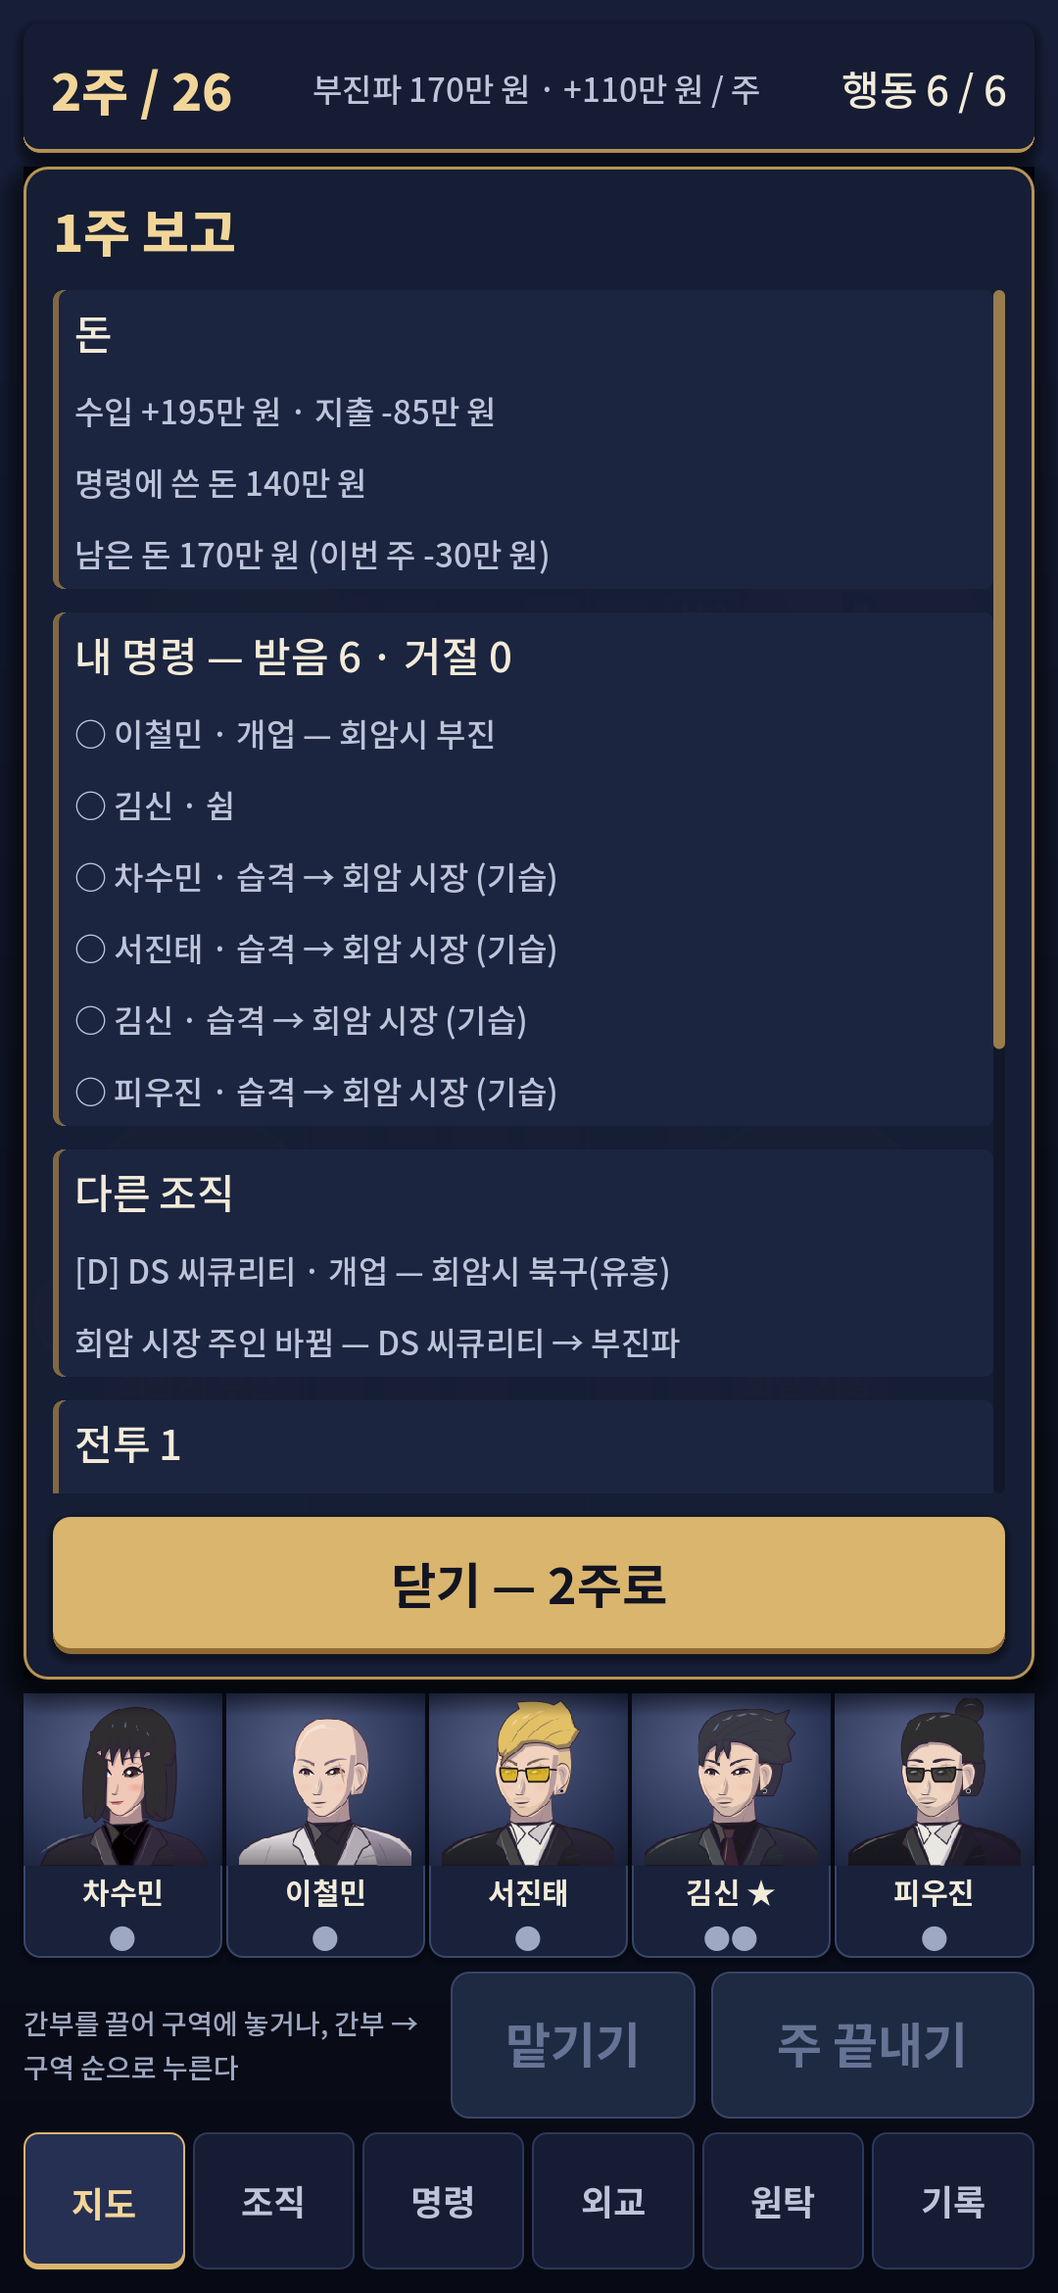
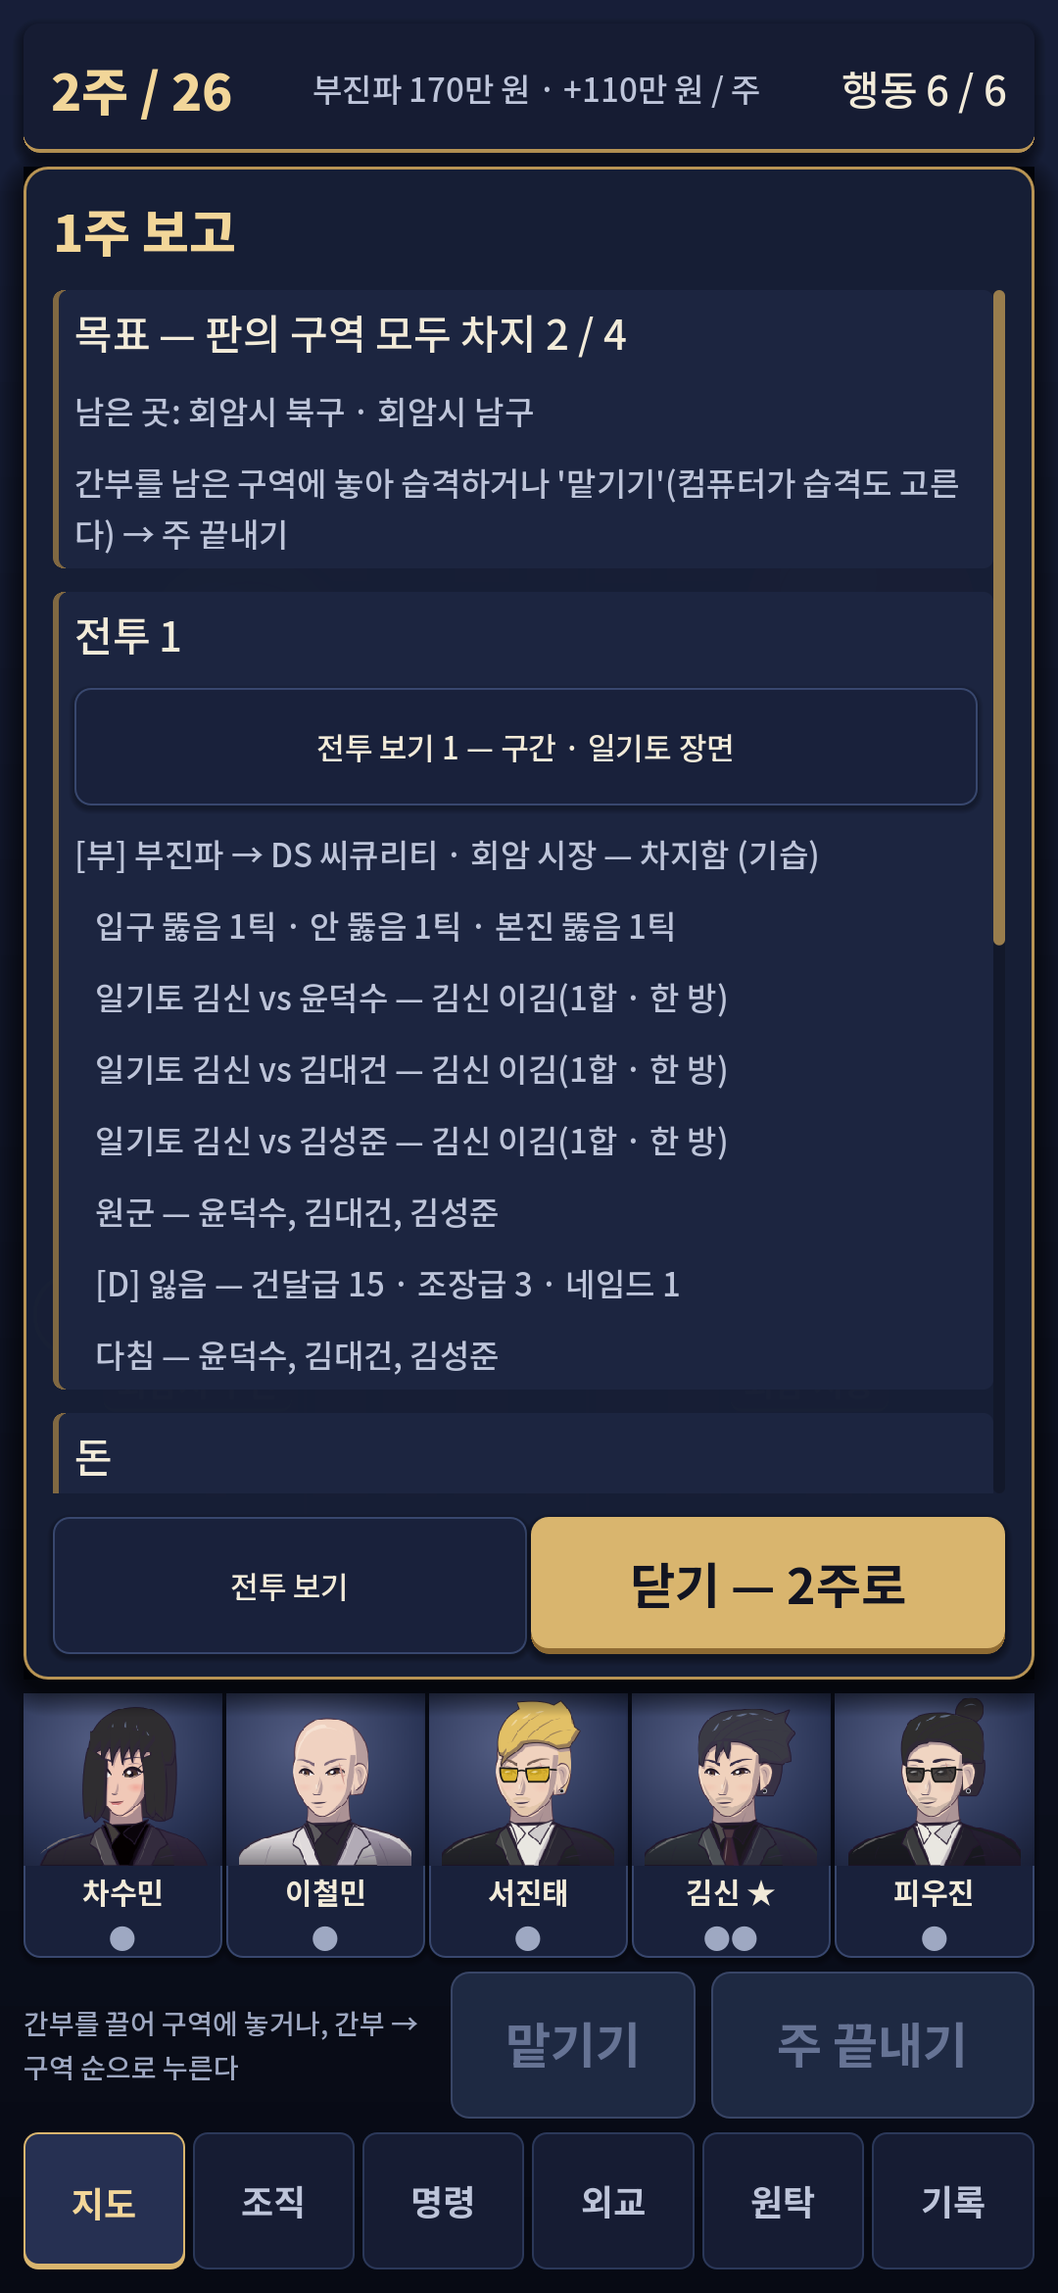
폰 rc.2 고침(T-6) — 보고: 목표 · 전투 카드를 앞에 · '전투 보기'를 카드 제목 밑과 아래 '닫기' 옆에 · 스크롤 목록 안 판을 PASS 로(손가락 끌기) · 시험 153

diff --git a/scripts/verify.py b/scripts/verify.py
@@ -47,7 +47,8 @@ COV_FILES = {
           "sim/rules_common.gd", "sim/tables.gd", "sim/state.gd", "sim/fixed.gd", "sim/economy.gd", "sim/setup.gd",
           "sim/orders.gd", "sim/kinds/move.gd", "sim/kinds/open.gd", "sim/kinds/expand.gd", "sim/kinds/recruit.gd",
           "sim/kinds/rest.gd", "sim/save.gd", "ui/map_layout.gd", "ui/view.gd", "sim/draft.gd",
-          "sim/duel.gd", "sim/combat.gd", "sim/outcome.gd", "sim/kinds/raid.gd", "sim/kinds/defend.gd"],
+          "sim/duel.gd", "sim/combat.gd", "sim/outcome.gd", "sim/kinds/raid.gd", "sim/kinds/defend.gd",
+          "ui/touch_scroll.gd"],
     "B": ["src/storage.gd", "src/data_files.gd", "sim/turn.gd", "sim/ai.gd", "sim/game.gd"],
 }
 COV_DIRS = ("sim", "src", "ui", "tests", "data")

diff --git a/docs/C3_테스트결과서_습격과일기토.md b/docs/C3_테스트결과서_습격과일기토.md
@@ -1,7 +1,7 @@
 # C3 테스트결과서 — 습격 · 일기토 · 전투 화면
 
 - 관련: `docs/C3_요구사항정의서_습격과일기토.md`(FR-301~310) · `docs/C3_설계서_습격과일기토.md` · `docs/기획_차이.md` (나)24~33 · `docs/성능.md` 2-1 · `docs/폰확인.md`
-- 정정 이력: 2026-11-10 — 첫 작성(서버 실행 증거 · 커버리지 · 자체 점검). 같은 날 — 8절 CI(run `42817779997` · `42818044721`) · 에뮬레이터 · 릴리스. 폰 결과는 폰 확인 뒤 더한다. 2026-11-11 — 9절 그림 바꾸기(도트 → 벡터 일러스트 · 글꼴 · 테마 — 사용자 지시 · `docs/기획_차이.md` (라)12) · 4절 스크린샷을 새 그림으로 다시 찍음(옛 장은 git 이력). 같은 날 — 10절 그림 2차(3/4 흉상 · 사용자 지시 다시 · (라)13) · 4절 네 장을 다시 찍음. 같은 날 — 8절 태그 `v0.3.0-rc.2`(run `42958856820`) · 에뮬레이터 · 릴리스.
+- 정정 이력: 2026-11-10 — 첫 작성(서버 실행 증거 · 커버리지 · 자체 점검). 같은 날 — 8절 CI(run `42817779997` · `42818044721`) · 에뮬레이터 · 릴리스. 폰 결과는 폰 확인 뒤 더한다. 2026-11-11 — 9절 그림 바꾸기(도트 → 벡터 일러스트 · 글꼴 · 테마 — 사용자 지시 · `docs/기획_차이.md` (라)12) · 4절 스크린샷을 새 그림으로 다시 찍음(옛 장은 git 이력). 같은 날 — 10절 그림 2차(3/4 흉상 · 사용자 지시 다시 · (라)13) · 4절 네 장을 다시 찍음. 같은 날 — 8절 태그 `v0.3.0-rc.2`(run `42958856820`) · 에뮬레이터 · 릴리스. 같은 날 — 8절 폰 rc.2 결과 · 11절 보고 고침(T-6) · 4절 보고 스크린샷 다시.
 
 ## 1. 서버 실행 증거 (2026-11-10 · 작업 서버 · 브랜치 `impl-c3`)
 - `python3 -B scripts/verify.py` 원문(서버 경로는 저장소 기준으로 줄임):
@@ -135,7 +135,7 @@ OK — 앱이 살아 있음 (pid 3579) · 자가 해시 같음
 ```
   - 로그 전체에서 `SCRIPT ERROR` 0줄. 에뮬레이터 fps(2~3)는 소프트웨어 GPU 라 예산 판정에 쓰지 않는다(`docs/성능.md` 3절).
[1 lines of base64/hex data omitted]
-- 폰 `v0.3.0-rc.2`: (폰 확인 뒤 더한다 — `docs/폰확인.md` C3 항목)
+- 폰 `v0.3.0-rc.2`(2026-11-11 · 사용자): "김신, 서진태, 피우진 회암 시장에 보내놓고 주 끝내기 하니까 보고의 '전투 보기' 버튼이 없는데? 그냥 전투 1 하고 설명칸만 있음" · "일기토 보고싶은데 어떻게해야하는지 모르겠음. 일러스트 초상은 잘 보임." · "화면을 편 상태에서는 '보고' 등 위아래로 손가락으로 화면 내리기가 잘 안먹혀." · "4주 보고에 승리 - 부진파는 잘나온다 확인했어." → 11절 · T-6 에서 고침(다음 rc). 그림은 "이것도 구린데 어떻게하지?" — 방법을 사용자에게 다시 물음.
 
 ## 9. 그림 바꾸기 — 도트 → 벡터 일러스트 (2026-11-11 · rc.2 앞 · 사용자 지시)
 - 까닭: 폰 rc.1 을 본 사용자 — "너무 그래픽이 안좋아서 볼것 다 못보겠어 … 도트형식말고 … 글로벌 어워즈 … 가장 반응 좋았던걸로 양식 입혀"(`docs/기획_차이.md` (라)12). 고른 방향과 까닭은 (나)34(TGA 2019 전략 부문 수상작 — 그림 초상 · 셀 음영 · 짙은 바탕 금색 강조 방향만 · 베끼지 않음).
@@ -211,3 +211,17 @@ verify: 11/11 통과 · 15초 — OK
 ```
 - CI: push run [`42950805111`](https://github.com/hipiboy7/castle_strategy/actions/runs/42950805111)(impl-c3 · e364eb5) — **성공**(verify `11/11 통과` · APK 안 파일 점검 `APK 에 판정 · 화면 코드 있음 · 시험 없음 · 크기 69276217 바이트` — 1차 67,559,993 에서 +1.7MB · 예산 80MB 안).
 - 안 된 것 · 위험: 얼굴 틀은 남녀 둘이고 모두 같은 쪽을 본다(사람마다 차이는 머리 · 눈 모양 · 안경 · 수염 · 흉터 · 옷 · 색). 폰에서 보는 느낌(작은 칸 · 접힌 화면)은 rc.2 폰 확인 때 받는다(`docs/폰확인.md` '새 그림(rc.2)' 줄).
+
+## 11. 폰 rc.2 고침 — 보고 '전투 보기' · 끌어 내리기 (2026-11-11 · `docs/트러블슈팅.md` T-6 · `docs/기획_차이.md` (나)38)
+- 서버 재현(경로만 — 손가락 끌기는 headless 에서 `is_touchscreen_available()` 이 false 라 재현 못 함): 새 판(시드 1)에서 김신 · 서진태 · 피우진 습격 → 맡기기 되풀이 = 1주 회암 시장 차지(일기토 3) · 2주 남구 · **4주 북구 → `win`**. 사용자 폰도 4주 승리가 나왔다(위 8절).
+- 고친 곳: `ui/touch_scroll.gd`(새 — 스크롤 목록 안 STOP 판을 PASS 로 · `ui/app.gd` 가 `SceneTree.node_added` 에 이음) · `ui/view.gd` `report_cards`(싸움이 있던 주는 목표 · 전투 카드가 앞) · `goal_card`(새 — 'n / 4' · 남은 곳 · 어떻게) · `ui/report_view.gd`(단추를 카드 제목 밑 · 아래 '닫기' 옆 '전투 보기').
+- 시험(A): `tests/unit/test_touch_scroll.gd`(판 → PASS · 단추 · 글 · 스크롤 밖 그대로) · `tests/unit/test_view_battle.gd` `test_report_order_battle_first`(1주 맡기기 카드 차례 `goal · battle · money · orders · intel` · '2 / 4' · 남은 곳 · 조용한 주는 전투가 끝). `scripts/verify.py` 커버리지 A 에 `ui/touch_scroll.gd` 를 더했다.
+- 서버 `python3 -B scripts/verify.py`(2026-11-11):
+```
+[ok] 시험 (2.3s) — tests: 153 passed, 0 failed
+[ok] 커버리지 (2.6s) — A 182/182 100%(기준 90%) · B 26/26 100%(기준 70%)
+[ok] 화면 띄우기 (창 없이 120 프레임) (1.5s) — SELFHASH b9259bb7a56b5bc3
+verify: 11/11 통과 · 15초 — OK
+```
+- 해시 그대로(`b9259bb7a56b5bc3` — 판정은 안 바꿈). 스크린샷: 4절 `docs/screenshots/C3/xvfb_phone_report_1080x2340.png` 를 다시 찍음(목표 · 전투 카드가 앞 · 아래 '전투 보기 | 닫기').
+- 안 된 것 · 위험: 단추 위에서 시작한 끌기는 여전히 스크롤하지 않는다(고르기 창 줄은 단추라 틈 · 막대로 내린다). 폰에서 끌기가 나아졌는지는 다음 rc 폰 확인(`docs/폰확인.md` '보고 · 끌어 내리기' 줄).

diff --git a/docs/트러블슈팅.md b/docs/트러블슈팅.md
@@ -1,6 +1,6 @@
 # 트러블슈팅
 
-> 정정 이력: 2026-11-10 — 첫 작성(T-1 · C1-0). 첫 문제가 생길 때 만든다는 CLAUDE.md 9절 규칙대로 만들었다. 2026-11-10 — T-2(릴리스를 폰에서 바로 받지 못함). 2026-11-10(C2) — T-3(문서 명령 단계가 서버에만 있는 폴더로 CI 에서 실패).
+> 정정 이력: 2026-11-10 — 첫 작성(T-1 · C1-0). 첫 문제가 생길 때 만든다는 CLAUDE.md 9절 규칙대로 만들었다. 2026-11-10 — T-2(릴리스를 폰에서 바로 받지 못함). 2026-11-10(C2) — T-3(문서 명령 단계가 서버에만 있는 폴더로 CI 에서 실패). 2026-11-11 — T-6(보고 '전투 보기'가 안 보임 · 끌어 내리기).
 
 ## T-1 · CI 에뮬레이터가 부팅하지 않음 — "Timeout waiting for emulator to boot" · 2026-11-10
 - **증상**: 수동 실행(emulator=true) run [`42735744915`](https://github.com/hipiboy7/castle_strategy/actions/runs/42735744915)에서 build 단계는 다 통과했다. 그런데 에뮬레이터 단계가 `adb: device 'emulator-5554' not found` 를 900초 동안 되풀이하다 `##[error]Timeout waiting for emulator to boot.` 으로 실패했다(17분).
@@ -32,3 +32,10 @@
 - **원인(층을 하나씩 빼 보며 확인)**: 한 `<clipPath>` 안에 겹치는 `<path>` 여럿을 넣으면 ThorVG 가 그것들을 SVG 규격처럼 '합집합'으로 보지 않고 감는 방향으로 합친다. 감는 방향이 반대인 두 모양이 겹친 곳은 구멍이 되어, 그 안에 그린 채움이 잘리고 밑의 외곽선(검정)이 보였다.
 - **조치**: `clip()` 이 path 하나만 받게 바꿨다(여러 개를 넘기면 바로 깨지게). 겹치는 모양(앞머리 덩어리 + 다발들 · 얼굴 + 두피)은 모양마다 따로 자른다 — 덤으로 다발마다 그늘이 따로 진다. 빡빡머리 색은 자르지 않고 두피 안 모양으로만 그린다.
 - **재발 방지**: SVG 를 손으로 만들 때 clipPath 는 path 하나. 그림을 바꾸면 Godot 으로 그린 모아 보기(작업 서버 `--headless --script` · `Image.load_svg_from_string`)로 확인한다 — 브라우저 · 다른 그리기 도구 결과를 믿지 않는다.
+
+## T-6 · 보고에 '전투 보기' 단추가 안 보임 · 펼친 화면에서 손가락으로 내리기가 잘 안 됨 — v0.3.0-rc.2 · 2026-11-11
+- **증상**: 사용자 폰(갤럭시 Z 폴드 4 · v0.3.0-rc.2) — "김신, 서진태, 피우진 회암 시장에 보내놓고 주 끝내기 하니까 보고의 '전투 보기' 버튼이 없는데? 그냥 전투 1 하고 설명칸만 있음" · "화면을 편 상태에서는 '보고' 등 위아래로 손가락으로 화면 내리기가 잘 안먹혀". 같은 날 "4주 보고에 승리 - 부진파는 잘나온다".
+- **원인(두 가지가 겹침)**: ① 전투 카드가 보고 맨 끝이고, '전투 보기' 단추는 그 카드의 설명 줄 아래에 있었다 — 맨 밑까지 내려야 보인다. ② Godot 4.7 의 `PanelContainer` 기본 `mouse_filter` 가 `STOP`(0)이다(작업 서버에서 `PanelContainer.new().mouse_filter` 를 찍어 확인 — `VBoxContainer` 는 PASS 1 · `Label` 은 IGNORE 2). 보고 카드(RowPanel) 위에서 시작한 끌기는 카드가 먹어 `ScrollContainer` 까지 가지 않는다 — 카드 사이 틈과 스크롤 막대에서만 움직였다. 그래서 ① 의 단추까지 내려가기 어려웠다.
+- **조치**: `ui/touch_scroll.gd` — `ui/app.gd` 가 `SceneTree.node_added` 에 이어, 스크롤 목록 안에 들어오는 STOP 판을 PASS 로 바꾼다(보고 · 탭 쪽 · 구역 카드 · 고르기 창 모두). 단추는 그대로 STOP(끌다 놓은 자리에서 단추가 눌려 잘못된 명령이 나가지 않게 — 단추 위에서 시작한 끌기는 여전히 스크롤하지 않는다). 보고는 싸움이 있던 주에 **목표 → 전투** 카드를 맨 앞에 두고, 단추를 카드 제목 바로 밑에 두고, 아래 '닫기' 옆에 **전투 보기** 단추를 늘 둔다(`ui/view.gd` `report_cards` · `goal_card` · `ui/report_view.gd`).
+- **재발 방지**: 스크롤 목록 안에 판을 새로 넣으면 `ui/touch_scroll.gd` 가 알아서 바꾼다(시험 `tests/unit/test_touch_scroll.gd`). 꼭 눌러야 하는 단추는 스크롤 맨 밑에 두지 않는다. 작업 서버(headless)는 `DisplayServer.is_touchscreen_available()` 이 false 라 손가락 끌기 스크롤을 재현하지 못한다 — 폰에서 본다.
+

diff --git a/docs/기획_차이.md b/docs/기획_차이.md
@@ -64,6 +64,7 @@
 | 35 | 10절 글꼴(Galmuri11 — 도트 글꼴) | **Noto Sans KR**(OFL · 가변 굵기 · 부분집합 4.4MB) — 본문 500 · 단추 700 · 제목 850. 도트 글꼴은 '도트 말고'에 맞지 않는다 | `assets/ASSETS.md` · CLAUDE.md 4절 |
 | 36 | 10절 그림 원본 | 초상 원본은 **외형 표 `assets/chars/looks.json`**(136명 · 사람 손으로 고침). 처음 값은 옛 도트 초상의 색 + canon `look.text` 낱말에서 한 번 뽑았다. 지도 위 간부는 서기 도트 대신 **동그란 얼굴 패**(같은 초상의 머리 둘레) | `ui/sprites.gd` · `ui/map_view.gd` |
 | 37 | 10절 초상 그리기(2차) | **3/4 로 돌린 흉상**(얼굴이 화면 왼쪽을 봄 · 머리가 그림의 약 60% · 어깨는 가슴까지) · **굵기가 변하는 잉크 선**(눈꺼풀 · 눈썹 · 다발 나눔 선) · **다발마다 셀 그늘**(빛 왼쪽 위 — 다발 · 얼굴 · 목의 오른쪽 아래에 그늘) · 먼 쪽 볼 가는 빛 테두리 · 큰 눈동자(그러데이션 · 빛 둘) · 머리 모양 10가지를 다발 · 커튼으로 다시 짬 · 아주 짙은 옷은 조금 띄우고 아래로 어둡게. 전투 일기토는 위 사람 초상을 좌우로 뒤집어 두 사람이 마주 본다(`ui/sprites.gd` `box(flip)` · 150px). 까닭: 1차(앞모습 · 작은 머리 · 넓은 어깨)는 작은 칸에서 얼굴이 안 보이고 모두 같아 보였다 — (라)13. 참고작 · '방향만' 원칙은 (나)34 그대로 | (라)13 · `scripts/draw_portraits.py` · `docs/트러블슈팅.md` T-5 |
+| 38 | 11절 턴 끝 보고(카드 차례) | 싸움이 있던 주는 **승패 → 목표 → 전투 → 돈 → 내 명령 → 다른 조직**(조용한 주는 전투가 끝). **목표 카드**(아직 승패 전 · A 는 '판의 구역 모두 차지 n / 4' · 남은 곳 · 어떻게)를 더했다. 아래 '닫기' 옆에 '전투 보기'를 늘 둔다 — 폰에서 단추가 스크롤 밖에 숨었다((라)14 · 트러블슈팅 T-6) | `ui/view.gd` · `ui/report_view.gd` |
 
 ## (다) 개발 규격 ↔ 이 판
 | # | 규격 | 이 판 | 근거 |
@@ -96,3 +97,4 @@
 11. C2 시작 — 보류 #2 그림 방법 — "보류 #2 그림 방법 답:(가) 시트 내보내기" (2026-11-10 · (가) = 00 7절 세 방법 중 시트 내보내기 · (나)8)
 12. 그림 바꾸기(C3 · 폰 확인 전) — "너무 그래픽이 안좋아서 볼것 다 못보겠어. 그림 좀더 이쁘게 그려. 도트형식말고. 글로벌 어워즈 게임 분야에서 이에 맞는 게임 최근부터 과거에서 찾아서 가장 반응 좋았던걸로 양식 입혀." (2026-11-11 · (나)8 정정 · (나)34~36 · 보류 #2 를 다시 정함)
 13. 그림 2차(C3 · 12 의 결과 뒤 · 새 세션) — "그림 좀더 이쁘게 그려. 도트형식말고. 글로벌 어워즈 게임 분야에서 이에 맞는 게임 최근부터 과거에서 찾아서 가장 반응 좋았던걸로 양식 입혀." (2026-11-11 · (나)37 — 참고작 조사는 12 때 것을 그대로 쓰고 그리는 솜씨를 올림)
+14. 폰 v0.3.0-rc.2 확인 — "김신, 서진태, 피우진 회암 시장에 보내놓고 주 끝내기 하니까 보고의 '전투 보기' 버튼이 없는데? 그냥 전투 1 하고 설명칸만 있음 / 4주 안팎에 승리 - 부진파 이거 안나옴 / 일기토 보고싶은데 어떻게해야하는지 모르겠음. 일러스트 초상은 잘 보임. / 그림 이것도 구린데 어떻게하지?" · "추가로 화면을 편 상태에서는 '보고' 등 위아래로 손가락으로 화면 내리기가 잘 안먹혀." · "4주 보고에 승리 - 부진파는 잘나온다 확인했어." (2026-11-11 · (나)38 · 트러블슈팅 T-6 · 그림은 사용자에게 다시 물음)

diff --git a/docs/폰확인.md b/docs/폰확인.md
@@ -10,12 +10,13 @@
 
 1. 아래 간부 줄의 **김신 ★** 을 끌어 **회암 시장**(`D`)에 놓는다 → 고르기 창에서 **습격 · 기습 — 결과는 주 끝 보고** (끌기가 안 되면 김신을 누른 뒤 회암시장을 누른다)
 2. **서진태** · **피우진** 도 회암 시장에 놓아 **습격 · 카드 없음** (같은 구역 습격은 한 싸움으로 묶인다 — 간부 4명까지)
-3. **주 끝내기** → 보고 맨 아래 **전투** 카드에서 결과 · 구간 · 일기토 줄을 보고 → **전투 보기 1**
-4. 전투 화면: 위 = DS · 아래 = 우리 · 일기토 장면(두 사람 초상 · 체력 · 낸 카드) → **×1** 을 눌러 ×2 · ×4 → **건너뛰기**(다음 구간) → **결과만** → **닫기** → 보고 **닫기 — 2주로**
+3. **주 끝내기** → 보고 맨 앞 **목표**(차지한 구역 n / 4) 밑 **전투** 카드에서 결과 · 구간 · 일기토 줄을 보고 → 카드의 **전투 보기 1** 또는 아래 **닫기** 옆 **전투 보기**
+4. 전투 화면: 위 = DS · 아래 = 우리 · **일기토 장면**(구간 안에서 두 쪽 간부가 마주치면 저절로 나온다 — 두 사람 초상 · 체력 · 낸 카드 · 1주 회암 시장은 김신이 셋과 붙는다) → **×1** 을 눌러 ×2 · ×4 → **건너뛰기**(다음 구간) → **결과만** → **닫기** → 보고 **닫기 — 2주로**
 5. 이제 **맡기기 → 주 끝내기 → 닫기** 를 되풀이한다 — 4주 안팎에 보고 맨 앞에 **승리 — 부진파**(판의 구역을 모두 차지) 카드가 뜬다. 그 뒤에도 26주까지 이어서 둘 수 있다
 
 ## ✅ 이번에 볼 것 (C3)
 
+- [ ] **보고 · 끌어 내리기(rc.3)**: 보고에서 카드 위를 손가락으로 끌어 위아래로 내려지는지(접은 화면 · 편 화면 둘 다) · 싸움이 있던 주에 아래 **전투 보기** 단추가 보이는지 · 맨 앞 목표 카드(n / 4 · 남은 곳)
 - [ ] **새 그림(rc.2)**: 도트 대신 일러스트 초상(3/4 로 돌린 흉상 · 전투 일기토는 두 사람이 마주 봄) · 새 글꼴(Noto Sans KR) · 남색 + 금색 화면 · 지도 위 동그란 얼굴 패가 **잘 보이고 읽기 편한지** — 글자가 작거나 흐린 곳 · 얼굴이 잘린 곳이 있으면 그 화면을 알려 주세요
 - [ ] **설치 · 이어 하기**: 앞 판 위에 덮어 설치되고 저장이 이어지는지 · 앞 판이 끝나 있으면 아래 **새 판으로** 단추가 보이고 눌러 1주로 가는지 · 기록 탭 정보 줄 '상태 play / -' (막히면 이 줄을 알려 주세요)
 - [ ] **고르기 창**: DS · 빈 구역에 간부를 놓으면 **이동 + 습격 6줄**(카드 없음 · 기습 · 정면 돌파 · 미끼 · 방패조 · 우회로 — 우회로는 '안 됨: 정보 2 이상'), 간부가 선 우리 구역이면 경영 줄 + **지키기 2줄**(매복 · 방패조)
